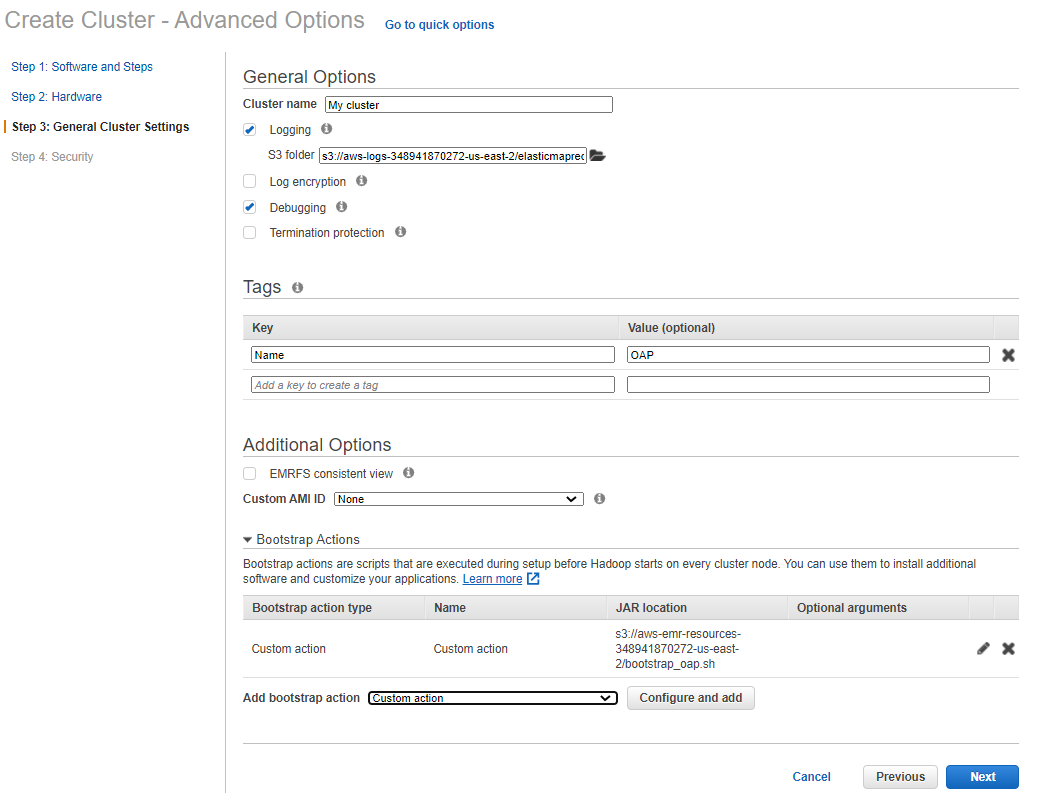
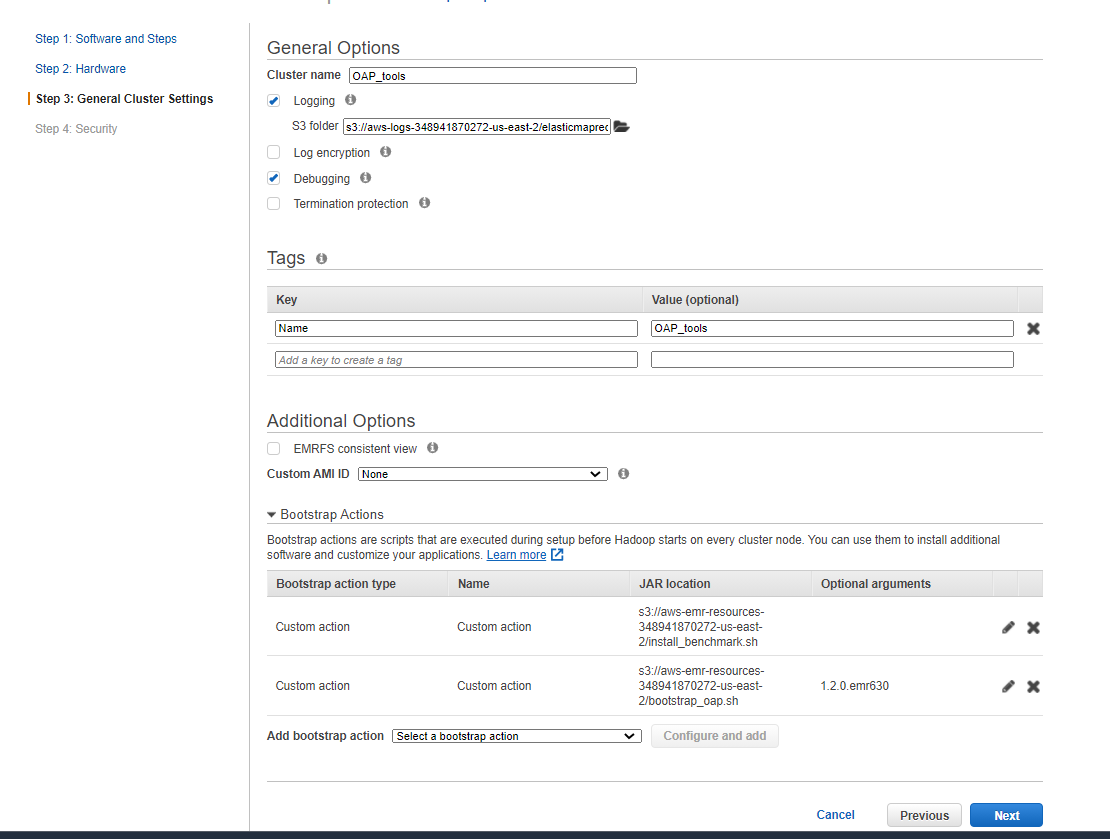
Add the doc about how to use gazelle_plugin on EMR

diff --git a/docs/Gazelle_on_EMR.md b/docs/Gazelle_on_EMR.md
@@ -1,0 +1,145 @@
+# Gazelle on EMR 6.3.0
+
+## 1. Creating a cluster on EMR
+
+### 1.1 Uploading initialization actions
+
+Upload the initialization actions scripts to S3. 
+**[bootstrap_oap.sh](../dev/integrations/oap/emr/bootstrap_oap.sh)** is to help conda install OAP packages and
+**[install_benchmark.sh](../dev/integrations/oap/emr/benchmark/install_benchmark.sh)** is to help install necessary tools for TPC-DS, TPC-H and HIBench on EMR clusters.
+    
+1). Download **[bootstrap_oap.sh](../dev/integrations/oap/emr/bootstrap_oap.sh)** and **[install_benchmark.sh](../dev/integrations/oap/emr/benchmark/install_benchmark.sh)** to a local folder.
+
+2). Upload these scripts to S3.
+
+![upload_init_script and install_benchmark.sh](../dev/integrations/oap/emr/imgs/upload_scripts_to_S3.png)
+
+
+### 1.2 Create a new cluster using bootstrap script
+
+To create a new cluster with initialization actions, follow the steps below:
+
+1). Click the  **Go to advanced options** to custom your cluster.
+
+2). **Software and Steps:** choose the release of emr and the software you need.
+
+3). **Hardware:** choose the instance type and other configurations of hardware;
+
+4). **General Cluster Settings:** add bootstrap action and add **[bootstrap_oap.sh](../dev/integrations/oap/emr/bootstrap_oap.sh)** like following picture;
+![Add bootstrap action](../dev/integrations/oap/emr/imgs/add-bootstrap-oap.PNG)
+
+5). **Security:** define the permissions and other security configurations.
+
+6). Click **Create cluster**. 
+
+## 2. Using benchmark-tools to easily run TPC-DS with Gazelle
+
+You can refer to [benchmark-tool Guide](../dev/integrations/oap/emr/emr-benchmark-tool/README.md) to learn how to use this tool. We switch working directory at ```../dev/integrations/oap/emr/emr-benchmark-tool``` and follow next steps.
+
+### 2.1. Update the basic configuration of spark
+
+#### Update the basic configuration of spark
+```
+$ sudo cp /lib/spark/conf/spark-defaults.conf ./repo/confs/spark-oap-emr/spark/spark-defaults.conf;
+```
+
+### 2.2. Create the testing repo && Config gazelle_plugin
+
+#### Create the testing repo
+```
+mkdir ./repo/confs/gazella_plugin_performance
+```
+#### Update the content of .base to inherit the configuration of ./repo/confs/spark-oap-emr
+```
+echo "../spark-oap-emr" > ./repo/confs/gazella_plugin_performance/.base
+```
+#### Update the content of ./repo/confs/gazella_plugin_performance/env.conf
+```
+NATIVE_SQL_ENGINE=TRUE
+STORAGE=s3
+S3_BUCKET={bucket_name}
+```
+Note: If you want to use s3 for storage, you must define S3_BUCKET; if you use hdfs for storage, you should set STORAGE like ```STORAGE=hdfs```
+
+#### Update the configurations of spark
+**[bootstrap_oap.sh](../dev/integrations/oap/emr/bootstrap_oap.sh)** will help install all OAP packages under dir `/opt/benchmark-tools/oap`,
+make sure to add below configuration to `./repo/confs/gazella_plugin_performance/spark/spark-defaults.conf`.
+
+```
+++spark.driver.extraLibraryPath   :/opt/benchmark-tools/oap/lib
+++spark.driver.extraClassPath     :/opt/benchmark-tools/oap/oap_jars/spark-arrow-datasource-standard-<oap.version>-jar-with-dependencies.jar:/opt/benchmark-tools/oap/oap_jars/spark-columnar-core-<oap.version>-jar-with-dependencies.jar
+
+++spark.executor.extraLibraryPath :/opt/benchmark-tools/oap/lib
+++spark.executor.extraClassPath   :/opt/benchmark-tools/oap/oap_jars/spark-arrow-datasource-standard-<oap.version>-with-dependencies.jar:/opt/benchmark-tools/oap/oap_jars/spark-columnar-core-<oap.version>-jar-with-dependencies.jar
+
+spark.executor.defaultJavaOptions -verbose:gc -XX:+PrintGCDetails -XX:+PrintGCDateStamps -XX:OnOutOfMemoryError='kill -9 %p' -XX:MaxDirectMemorySize=40G
+spark.executorEnv.CC                            /opt/benchmark-tools/oap/bin/gcc
+spark.executorEnv.CXX                           /opt/benchmark-tools/oap/bin/g++
+spark.executorEnv.CPLUS_INCLUDE_PATH            /opt/benchmark-tools/oap/include
+spark.executorEnv.LD_LIBRARY_PATH               /opt/benchmark-tools/oap/lib
+spark.sql.extensions                            com.intel.oap.ColumnarPlugin
+spark.shuffle.manager                           org.apache.spark.shuffle.sort.ColumnarShuffleManager
+spark.sql.join.preferSortMergeJoin              false
+spark.sql.inMemoryColumnarStorage.batchSize     20480
+spark.sql.parquet.columnarReaderBatchSize       20480
+spark.sql.execution.arrow.maxRecordsPerBatch    20480
+spark.executor.memoryOverhead                   512m
+spark.sql.autoBroadcastJoinThreshold            10485760
+spark.driver.maxResultSize                      1g
+spark.sql.shuffle.partitions                    200
+spark.memory.offHeap.enabled                    false
+spark.memory.offHeap.size                       10g
+spark.sql.adaptive.enabled                      false
+spark.sql.sources.useV1SourceList               avro
+spark.driver.userClassPathFirst                 true
+spark.executor.userClassPathFirst               true
+
+```
+
+#### Define te the configurations of TPC-DS
+
+Edit the content of `./repo/confs/gazella_plugin_performance/TPC-DS/config`
+```
+scale 1                    // data scale/GB
+format parquet             // support parquet or orc
+partitionTables true       // creating partitioned tables
+queries all                // 'all' means running 99 queries, '1,2,4,6' means running q1.sql, q2.sql, q4.sql, q6.sql
+```
+
+#### Define te the configurations of TPC-H
+
+Edit the content of `./repo/confs/gazella_plugin_performance/TPC-H/config`
+```
+scale 1                    // data scale 1 GB
+format parquet             // support parquet or orc
+partitionTables true       // creating partitioned tables
+queries all                // 'all' means running 22 queries, '1,2,4,6' means running 1.sql, 2.sql, 4.sql, 6.sql
+```
+
+
+## 3. Run TPC-DS
+
+We provide scripts **[run_benchmark.sh](../dev/integrations/oap/dataproc/benchmark/run_benchmark.sh)** to help easily run TPC-DS and TPC-H.
+
+```
+Generate data: ./run_benchmark.sh -g|--gen   -w|--workload tpcds -f|--format [parquet|orc] -s|--scaleFactor [10|custom the data scale,the unit is GB] -d|--doubleForDecimal -p|--partitionTables --Port [8020|customed hdfs port]   
+Run benchmark: ./run_benchmark.sh -r|--rerun -w|--workload tpcds -f|--format [parquet|orc|arrow] -i|--iteration [1|custom the interation you want to run]  -s|--scaleFactor [10|custom the data scale,the unit is GB]  -p|--partitionTables --Port [8020|customed hdfs port]   
+```
+
+Only after enabling Gazelle Plugin can you run TPC-DS or TPC-H with arrow format.
+
+Example: generate 1GB Parquet, then run TPC-DS all queries with Gazelle enabled.
+
+```
+# generate data
+./run_benchmark.sh -g -w tpcds -f parquet  -s 1 -d -p --Port 8020
+
+# run TPC-DS
+./run_benchmark.sh -r -w tpcds -f arrow -s 1 -i 1 -p --Port  8020
+```
+
+### 4. Run TPC-H:  
+```
+Generate data: ./run_benchmark.sh -g|--gen   -w|--workload tpch  -f|--format [parquet|orc] -s|--scaleFactor [10|custom the data scale,the unit is GB] -d|--doubleForDecimal -p|--partitionTables --Port [8020|customed hdfs port]  
+Run benchmark: ./run_benchmark.sh -r|--rerun -w|--workload tpch  -f|--format [parquet|orc|arrow] -i|--iteration [1|custom the interation you want to run] -s|--scaleFactor [10|custom the data scale,the unit is GB] -p|--partitionTables --Port [8020|customed hdfs port] 
+``` 
